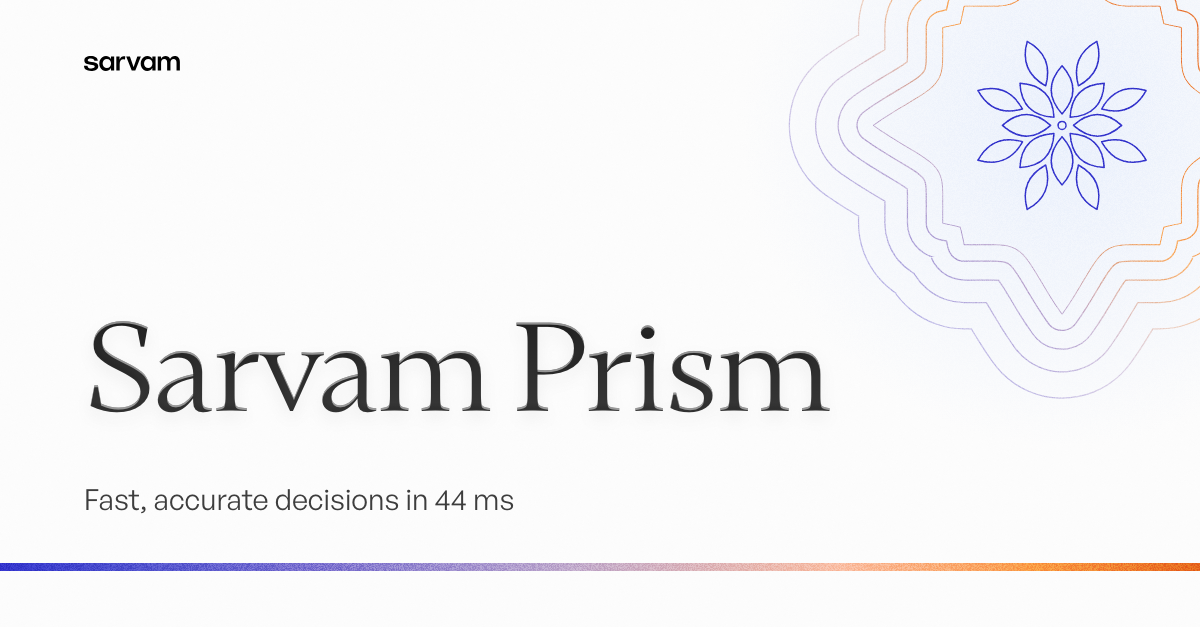
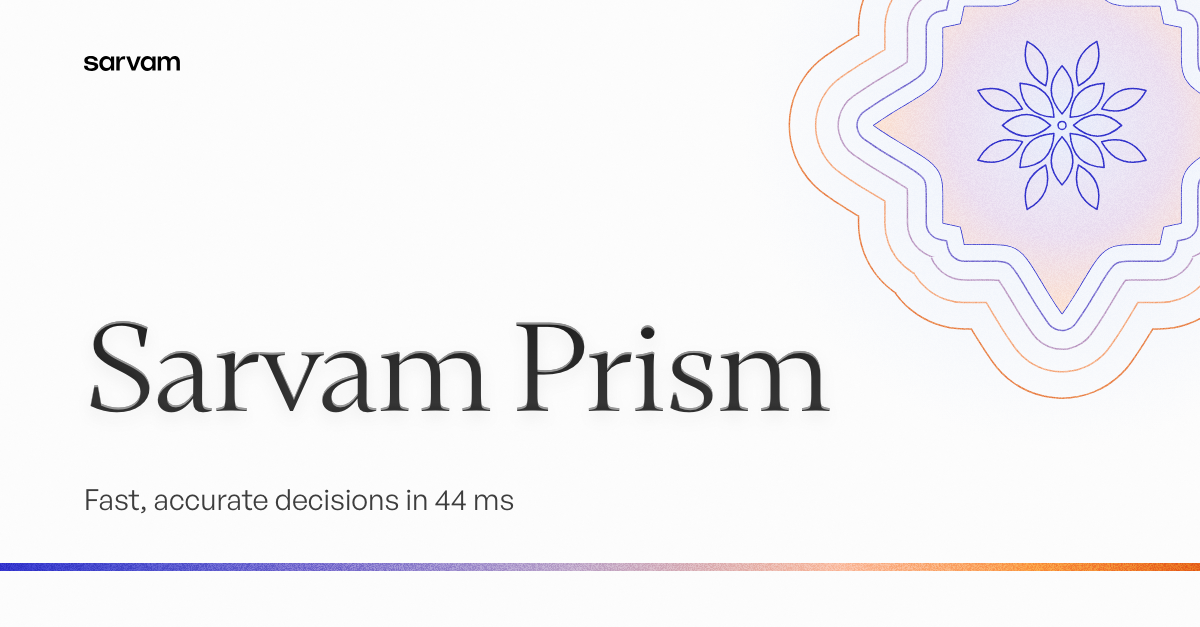
Spectrum corner: one hue per ring (indigo to orange) and a tinted core

diff --git a/src/components/sarvam/composer.tsx b/src/components/sarvam/composer.tsx
@@ -314,6 +314,13 @@ function renderDevice(spec: BannerSpec, F: Frame, id: string, beside = false, _f
 
 /** Sarvam's spectrum, end to end: indigo → lilac → peach → orange [sampled: indigo glow + sun gradients]. */
 const SPECTRUM = "linear-gradient(90deg in oklab, #3333cc 0%, #7c71d0 26%, #c2abcc 48%, #fabea3 70%, #fa9b43 86%, #e6651b 100%)";
+/** A colour on the brand spectrum, t = 0 (indigo) → 1 (orange). Stops from SPECTRUM, mixed linearly in sRGB. */
+const SPECTRUM_STOPS: [number, string][] = [[0, "#3333cc"], [0.26, "#7c71d0"], [0.48, "#b394c6"], [0.7, "#f2a07f"], [0.86, "#fa9b43"], [1, "#e6651b"]];
+function spectrumAt(t: number) {
+  const i = Math.max(0, SPECTRUM_STOPS.findIndex(([o]) => o >= t) - 1), [o0, a] = SPECTRUM_STOPS[i], [o1, b] = SPECTRUM_STOPS[Math.min(i + 1, SPECTRUM_STOPS.length - 1)];
+  const u = o1 === o0 ? 0 : (t - o0) / (o1 - o0), h = (c: string) => [1, 3, 5].map((j) => parseInt(c.slice(j, j + 2), 16));
+  return "#" + h(a).map((v, j) => Math.round(v + (h(b)[j] - v) * u).toString(16).padStart(2, "0")).join("");
+}
 /** Spectrum line: one thin, hard-edged strip of the brand spectrum across a calm canvas, like light through a prism.
  *  The top-right corner holds a line medallion (nested true-offset outlines around a lotus line-motif), cropped by
  *  the corner and drawn in the same spectrum, so the art and the strip are one system. */
@@ -333,16 +340,16 @@ function spectrumDevice(spec: BannerSpec, F: Frame, id: string, land: boolean): 
     <>
       <svg width={F.W} height={F.H} style={{ position: "absolute", inset: 0 }} aria-hidden>
         <defs>
-          {/* spectrum stroke: indigo at the lower-left of the medallion → orange at its upper-right */}
-          <linearGradient id={k("sp")} gradientUnits="userSpaceOnUse" x1={cx - R * 1.6} y1={cy + R * 1.6} x2={F.W} y2={0}>
-            <stop offset="0" stopColor="#3333cc" /><stop offset="0.3" stopColor="#7c71d0" /><stop offset="0.5" stopColor="#c2abcc" /><stop offset="0.68" stopColor="#fa9b43" /><stop offset="1" stopColor="#e6651b" />
-          </linearGradient>
+          <radialGradient id={k("core")} gradientUnits="userSpaceOnUse" cx={cx} cy={cy} r={R}><stop offset="0" stopColor="#e8effc" /><stop offset="0.6" stopColor="#ecdff0" /><stop offset="1" stopColor="#fde3d2" /></radialGradient>
           <radialGradient id={k("wash")} gradientUnits="userSpaceOnUse" cx={cx} cy={cy} r={R * 1.7}><stop offset="0" stopColor="#e8effc" stopOpacity="0.9" /><stop offset="1" stopColor="#e8effc" stopOpacity="0" /></radialGradient>
         </defs>
         {/* a faint periwinkle wash so the corner has depth without a blur on any line */}
         <circle cx={cx} cy={cy} r={R * 1.7} fill={`url(#${k("wash")})`} />
-        {rings.map((o, i) => <OffsetLine key={o} id={k(`r${i}`)} d={d} off={R * o} lw={i === 0 ? 1.75 : 1.25} color={`url(#${k("sp")})`} opacity={1 - i * 0.13} />)}
-        <g transform={`translate(${cx} ${cy}) scale(${mS})`} fill="none" stroke={`url(#${k("sp")})`} strokeWidth={1.5 / mS} strokeLinejoin="round"
+        {/* the core: a soft spectrum tint inside the medallion (periwinkle centre → peach edge), crisp-edged */}
+        <path d={d} fill={`url(#${k("core")})`} />
+        {/* dispersion: each ring one solid hue, stepping through the spectrum from the centre out (light through a prism) */}
+        {rings.map((o, i) => <OffsetLine key={o} id={k(`r${i}`)} d={d} off={R * o} lw={1.5} color={spectrumAt(i / (rings.length - 1))} opacity={1 - i * 0.06} />)}
+        <g transform={`translate(${cx} ${cy}) scale(${mS})`} fill="none" stroke="#3333cc" strokeWidth={1.5 / mS} strokeLinejoin="round"
           style={{ transformBox: "view-box" }} dangerouslySetInnerHTML={{ __html: motif }} />
       </svg>
       <div aria-hidden style={{ position: "absolute", left: 0, right: 0, top: y, height: h, background: SPECTRUM }} />

diff --git a/design-system/design.md b/design-system/design.md
@@ -1989,7 +1989,7 @@ Every Sarvam banner is a **composition of a few choices + at most two lines of t
    | `gateway-window` | 3 carved layers opening onto warm cream light | Funding, big announcements |
    | `gateway-echo` | 5 thin outline gateways rising from the bottom | Announcements |
       | `gloss` | Mirrored cluster of glossy studio shapes | Events, programs, community |
-   | `spectrum` | **Our taste** `[addition]`: a calm off-white canvas, one thin hard-edged strip of the brand spectrum (indigo → orange) near the bottom, and a **line medallion** in the top-right corner (nested true-offset outlines around a lotus line-motif) drawn in the same spectrum and cropped by the corner. Text is set left and low (`editorial` layout). `shape`: Ogee cross (default), Scalloped medallion, Eight-point star, Quatrefoil | Model launches and announcements that should feel calm and precise |
+   | `spectrum` | **Our taste** `[addition]`: a calm off-white canvas, one thin hard-edged strip of the brand spectrum (indigo → orange) near the bottom, and a **line medallion** in the top-right corner, cropped by the corner: nested true-offset outlines, **each ring one solid hue stepping through the spectrum from indigo (inside) to orange (outside)**, like light dispersing through a prism. A soft spectrum tint fills the core (periwinkle centre → peach edge, crisp-edged), with an indigo lotus line-motif at the centre. Text is set left and low (`editorial` layout). `shape`: Ogee cross (default), Scalloped medallion, Eight-point star, Quatrefoil | Model launches and announcements that should feel calm and precise |
    | `emblem` | One frosted, bevelled medallion with **one Nucleo icon engraved** in it, echo rings on true offsets. Text sits beside it (split on LinkedIn, stacked on Meta). `icon`: shield, plug, check, calendar, search, globe, inbox, megaphone, target, chart, book, sparkle, person | A capability you can name as an object |
    | `arch-window` | The gateway as a **window onto the real product**: a recessed arch (Mihrab / Domed door) standing on the bottom edge, light inside, one frozen product mock (`card`) seen through it. Text beside it | A product moment you can see |
    | `script-mandala` | **"Sarvam" in nine Indian scripts**, set in rings around a glowing disc. Meta: the headline sits in the disc. LinkedIn: the logomark sits in the disc and the text sits left (the wordmark is dropped; never both) `[addition]` | India, languages, mission, sovereignty, people |

diff --git a/design-system/recipes/banner-builder.md b/design-system/recipes/banner-builder.md
@@ -65,7 +65,7 @@ Every Sarvam banner is a **composition of a few choices + at most two lines of t
    | `gateway-window` | 3 carved layers opening onto warm cream light | Funding, big announcements |
    | `gateway-echo` | 5 thin outline gateways rising from the bottom | Announcements |
       | `gloss` | Mirrored cluster of glossy studio shapes | Events, programs, community |
-   | `spectrum` | **Our taste** `[addition]`: a calm off-white canvas, one thin hard-edged strip of the brand spectrum (indigo → orange) near the bottom, and a **line medallion** in the top-right corner (nested true-offset outlines around a lotus line-motif) drawn in the same spectrum and cropped by the corner. Text is set left and low (`editorial` layout). `shape`: Ogee cross (default), Scalloped medallion, Eight-point star, Quatrefoil | Model launches and announcements that should feel calm and precise |
+   | `spectrum` | **Our taste** `[addition]`: a calm off-white canvas, one thin hard-edged strip of the brand spectrum (indigo → orange) near the bottom, and a **line medallion** in the top-right corner, cropped by the corner: nested true-offset outlines, **each ring one solid hue stepping through the spectrum from indigo (inside) to orange (outside)**, like light dispersing through a prism. A soft spectrum tint fills the core (periwinkle centre → peach edge, crisp-edged), with an indigo lotus line-motif at the centre. Text is set left and low (`editorial` layout). `shape`: Ogee cross (default), Scalloped medallion, Eight-point star, Quatrefoil | Model launches and announcements that should feel calm and precise |
    | `emblem` | One frosted, bevelled medallion with **one Nucleo icon engraved** in it, echo rings on true offsets. Text sits beside it (split on LinkedIn, stacked on Meta). `icon`: shield, plug, check, calendar, search, globe, inbox, megaphone, target, chart, book, sparkle, person | A capability you can name as an object |
    | `arch-window` | The gateway as a **window onto the real product**: a recessed arch (Mihrab / Domed door) standing on the bottom edge, light inside, one frozen product mock (`card`) seen through it. Text beside it | A product moment you can see |
    | `script-mandala` | **"Sarvam" in nine Indian scripts**, set in rings around a glowing disc. Meta: the headline sits in the disc. LinkedIn: the logomark sits in the disc and the text sits left (the wordmark is dropped; never both) `[addition]` | India, languages, mission, sovereignty, people |

diff --git a/process/prompt-log.md b/process/prompt-log.md
@@ -382,3 +382,10 @@ Entry format:
   - At first the gradient barely reached orange, so it's now aimed at the frame corner.
   - On LinkedIn the outer ring crossed "Prism", so landscape uses one ring fewer and the medallion sits further into the corner.
 - QA PASS in both formats.
+
+## 2026-11-04 — Spectrum corner: dispersion rings
+- Prompt (verbatim): "Loved it but that gradient thing, I feel like, should be much better on the top-right thing."
+- Cause: one diagonal gradient across every ring, plus fading opacity, washed the middle rings to pale lilac. Orange only showed at the very corner.
+- Change: each ring is now one solid hue, stepping through the spectrum from indigo (inner) to orange (outer), at near-full opacity (`spectrumAt(t)`). The rings read as light dispersing through a prism, and they match the strip below.
+- Added a crisp spectrum tint inside the core (periwinkle centre → peach edge), and the lotus motif is now in solid indigo.
+- Before / after: `process/screens/banners-simple/spectrum-gradient-before-after.png` (left: before, middle: rings only, right: rings + tinted core ✅). QA PASS, re-exported.
